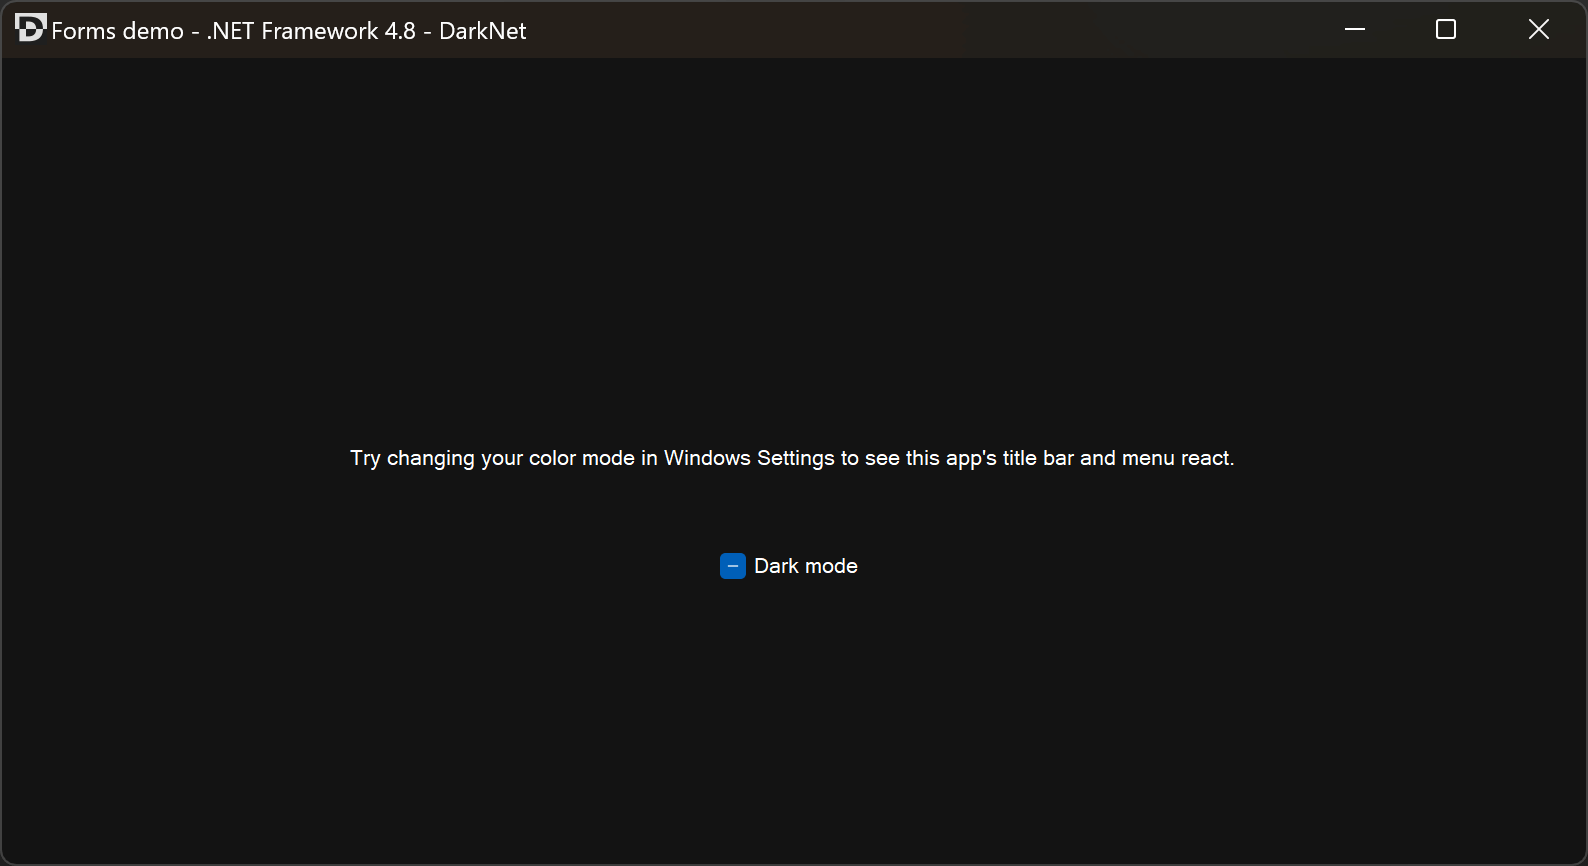
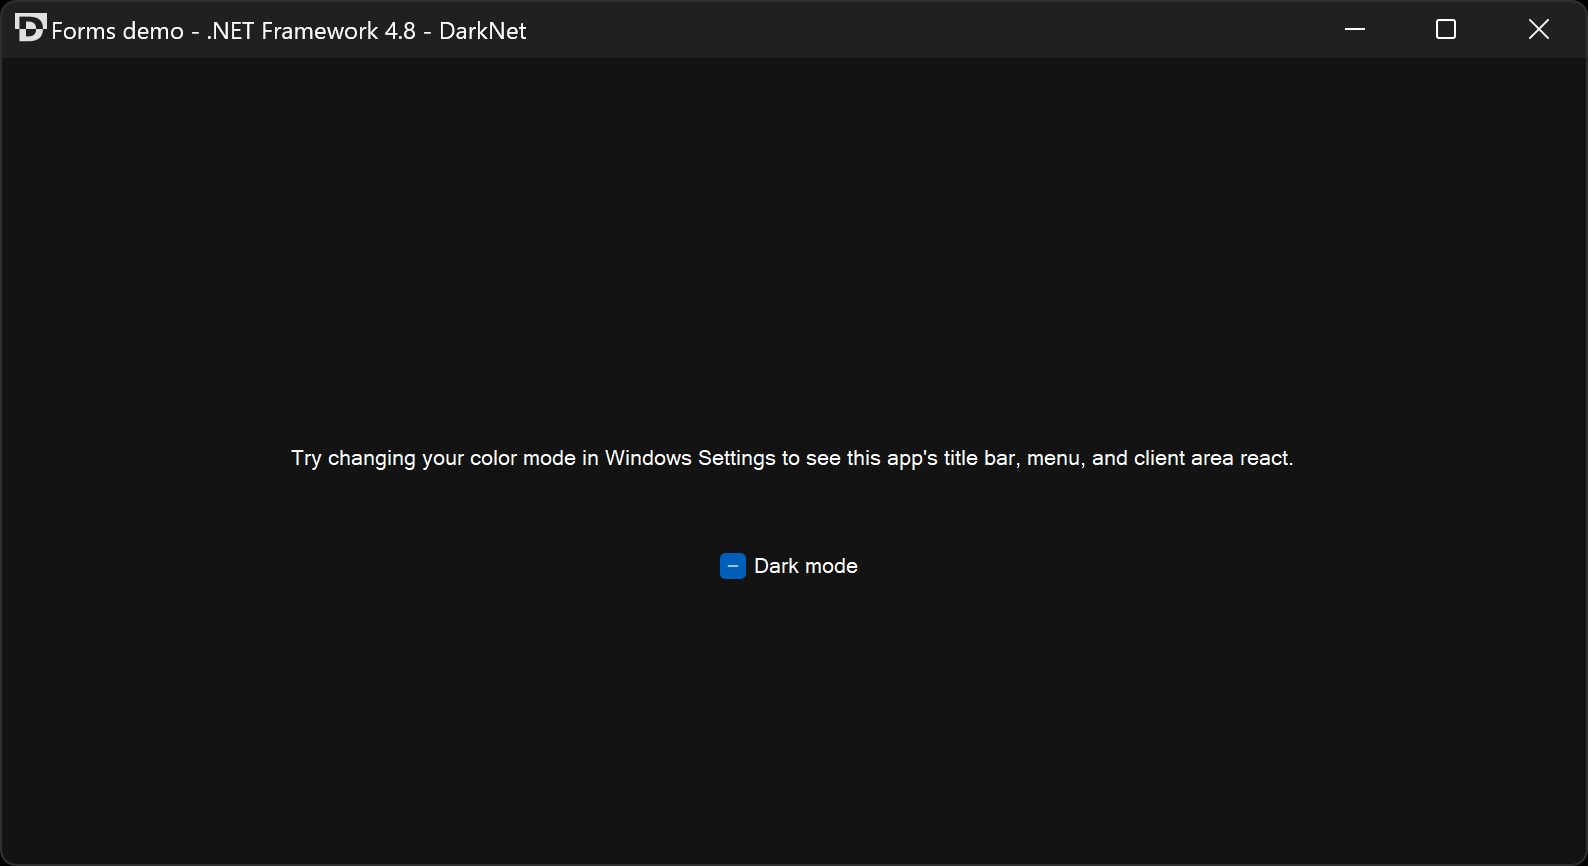
Document SkinManager.

diff --git a/darknet-demo-winforms/Program.cs b/darknet-demo-winforms/Program.cs
@@ -13,11 +13,15 @@ internal static class Program {
         Application.EnableVisualStyles();
         Application.SetCompatibleTextRenderingDefault(false);
 
-        IDarkNet darkNet = DarkNet.Instance;
-        darkNet.SetCurrentProcessTheme(Theme.Auto);
+        IDarkNet darkNet      = DarkNet.Instance;
+        Theme    processTheme = Theme.Auto;
+        darkNet.SetCurrentProcessTheme(processTheme);
+        Console.WriteLine($"Process theme is {processTheme}");
 
-        Form mainForm = new Form1();
-        darkNet.SetWindowThemeForms(mainForm, Theme.Auto);
+        Form  mainForm    = new Form1();
+        Theme windowTheme = Theme.Auto;
+        darkNet.SetWindowThemeForms(mainForm, windowTheme);
+        Console.WriteLine($"Window theme is {windowTheme}");
 
         Console.WriteLine($"System theme is {(darkNet.UserDefaultAppThemeIsDark ? "Dark" : "Light")}");
         Console.WriteLine($"Taskbar theme is {(darkNet.UserTaskbarThemeIsDark ? "Dark" : "Light")}");

diff --git a/darknet-demo-winforms/Form1.cs b/darknet-demo-winforms/Form1.cs
@@ -22,12 +22,14 @@ public partial class Form1: Form {
     }
 
     private void onDarkModeCheckboxChanged(object sender, EventArgs e) {
-        DarkNet.Instance.SetCurrentProcessTheme(darkModeCheckbox.CheckState switch {
+        Theme theme = darkModeCheckbox.CheckState switch {
             CheckState.Unchecked     => Theme.Light,
             CheckState.Checked       => Theme.Dark,
             CheckState.Indeterminate => Theme.Auto,
             _                        => Theme.Auto
-        });
+        };
+        DarkNet.Instance.SetCurrentProcessTheme(theme);
+        Console.WriteLine($"Process theme is {theme}");
     }
 
 }

diff --git a/DarkNet/WPF/SkinManager.cs b/DarkNet/WPF/SkinManager.cs
@@ -3,7 +3,7 @@ using System.Collections.ObjectModel;
 using System.Linq;
 using System.Windows;
 
-namespace Dark.Net.WPF;
+namespace Dark.Net.Wpf;
 
 /// <summary>
 /// Automatically swap the current WPF <see cref="Application"/> between a light and dark <see cref="ResourceDictionary"/> when the effective process theme changes between <see cref="Theme.Light"/>

diff --git a/darknet-demo-wpf/App.xaml.cs b/darknet-demo-wpf/App.xaml.cs
@@ -1,7 +1,7 @@
 using System;
 using System.Windows;
 using Dark.Net;
-using Dark.Net.WPF;
+using Dark.Net.Wpf;
 
 namespace darknet_demo_wpf;
 

diff --git a/Readme.md b/Readme.md
@@ -21,6 +21,7 @@ Enable native Windows dark mode for your WPF and Windows Forms title bars.
         - [On application startup](#on-application-startup)
         - [Before showing a new window](#before-showing-a-new-window)
         - [After showing a window](#after-showing-a-window)
+        - [Client area](#client-area)
         - [Complete example](#complete-example)
     - [Windows Forms](#windows-forms)
         - [On application startup](#on-application-startup-1)
@@ -160,6 +161,35 @@ You must perform this step for **every** window you show in your application, no
 After calling `SetWindowThemeWpf` for the first time and showing a new window, you may optionally make additional calls to `SetCurrentProcessTheme` or `SetWindowThemeWpf` multiple times to change the theme later. This is useful if you let users choose a theme in your app's settings.
 
 Try the [demo apps](#demos) to see this behavior in action.
+
+#### Client area
+
+DarkNet does not give controls in the client area of your windows a dark skin. It only changes the theme of the title bar and system context menu. It is up to you to make the inside of your windows dark.
+
+However, this library can help you switch your WPF application resource dictionaries to apply different styles when the process title bar theme changes. This requires you to create two resource dictionaries, one for the light theme and one for dark.
+
+To tell DarkNet to switch between the resource dictionaries when the process theme changes, register them with [**`SkinManager`**](https://github.com/Aldaviva/DarkNet/blob/master/DarkNet/Wpf/SkinManager.cs):
+
+```cs
+new Dark.Net.Wpf.SkinManager().RegisterSkins(
+    lightThemeResources: new Uri("Skins/Skin.Light.xaml", UriKind.Relative),
+    darkThemeResources:  new Uri("Skins/Skin.Dark.xaml", UriKind.Relative));
+```
+
+When you register the skin URIs, `SkinManager` will change the `Source` property of the merged resource dictionary to point to the correct skin, once when you call it and again whenever the current process theme changes in the future.
+
+In your skin resource dictionaries, you can define resources, such as a `Color`, `Brush`, or `BitmapImage`, that are referred to using a `DynamicResource` binding somewhere in your window. You can also create a `Style` that applies to a `TargetType`, or that you refer to with a `DynamicResource`. These can apply a `ControlTemplate` to change the default appearance of controls like `CheckBox`, which unfortunately has property triggers that must be completely replaced in order to be restyled, instead of using template bindings or attached properties. Try to use `DynamicResource` instead of `StaticResource` so that the style can update when the skin is changed.
+
+To get started overriding a control's default styles and control template, right-click the control in the Visual Studio XAML Designer, select Edit Template › Edit a Copy…, then define the resource in your skin's resource dictionary. 
+
+See [`darknet-demo-wpf`](https://github.com/Aldaviva/DarkNet/tree/master/darknet-demo-wpf) for an example.
+- [`Skins/`](https://github.com/Aldaviva/DarkNet/tree/master/darknet-demo-wpf/Skins) contains the resource dictionaries for [light](https://github.com/Aldaviva/DarkNet/blob/master/darknet-demo-wpf/Skins/Skin.Light.xaml) and [dark](https://github.com/Aldaviva/DarkNet/blob/master/darknet-demo-wpf/Skins/Skin.Dark.xaml) skins, as well as [common](https://github.com/Aldaviva/DarkNet/blob/master/darknet-demo-wpf/Skins/Skin.Common.xaml) resources that are shared by both skins.
+    - The dark skin in `Skin.Dark.xaml` overrides the styles and control template for the `CheckBox` to get rid of the light background, including when the mouse pointer is hovering over or clicking on it.
+- [`App.xaml.cs`](https://github.com/Aldaviva/DarkNet/blob/master/darknet-demo-wpf/App.xaml.cs) registers the skins with `SkinManager`.
+    - When referring to XAML files in other assemblies, or when processing assemblies with tools like [`ILRepack`](https://github.com/ravibpatel/ILRepack.Lib.MSBuild.Task), the skin URIs can change. You may need to [try multiple fallback URIs](https://github.com/Aldaviva/RemoteDesktopServicesCertificateSelector/blob/4beb7893ac99ef0a3bc512feb93398ea8993c9a6/RemoteDesktopServicesCertificateSelector/App.xaml.cs#L44-L59) depending on whether the app was built in a Debug or Release configuration.
+- [`App.xaml`](https://github.com/Aldaviva/DarkNet/blob/master/darknet-demo-wpf/App.xaml) can optionally point to either the dark or light skin in its merged resource dictionary, which will be replaced at runtime by `SkinManager`. The value you set here is useful for previewing during Visual Studio XAML authoring. This merged dictionary can additionally refer to your other unrelated resource dictionaries and resources, which won't be touched by `SkinManager`.
+- [`MainWindow.xaml`](https://github.com/Aldaviva/DarkNet/blob/master/darknet-demo-wpf/MainWindow.xaml) binds the `Window` `Style` property to a `DynamicResource` pointing to the `windowStyle` resource, which is defined twice in both the light and dark skin resource dictionaries. You need to explicitly bind `Window` styles like this instead of using a `TargetType` on your `Style` because `TargetType` does not apply to superclasses, and the concrete class here is `darknet_demo_wpf.MainWindow` instead of `System.Windows.Window`.
+
 
 #### Complete example
 
